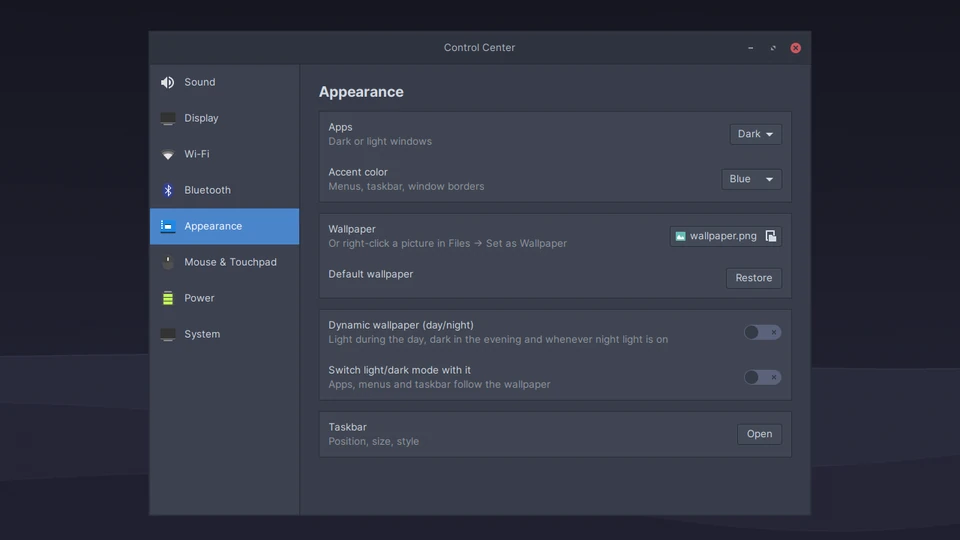
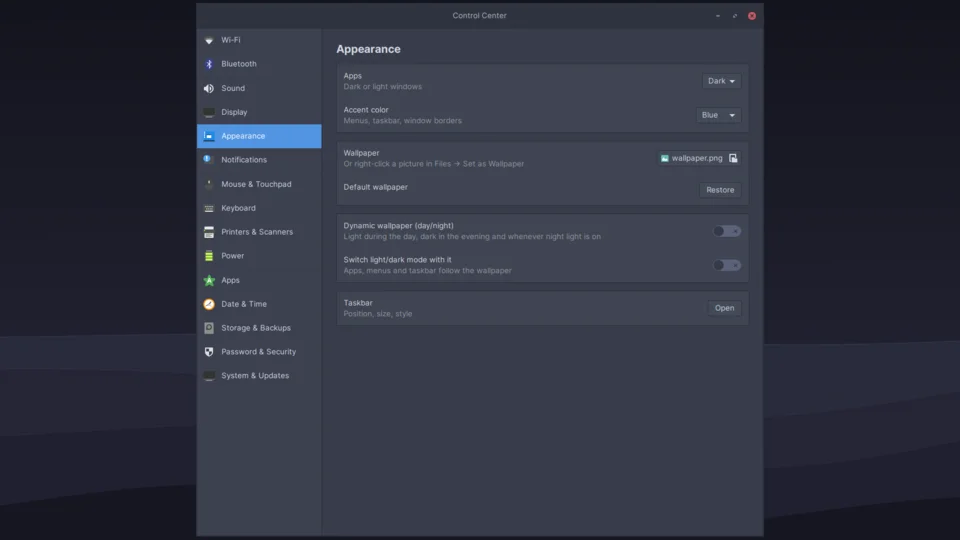
Roadmap: 1.0.6 next (7 Nov); Control Center screenshot from 1.0.5

diff --git a/roadmap.html b/roadmap.html
@@ -4,7 +4,7 @@
 <meta charset="utf-8">
 <meta name="viewport" content="width=device-width, initial-scale=1">
 <title>Roadmap – Simple-Project</title>
-<meta name="description" content="What's planned for Simple OS 1.1 and 2.0 (Debian 13), and for Simple Organizer.">
+<meta name="description" content="What's planned for Simple OS 1.0.6, 1.1 and 2.0 (Debian 13), and for Simple Organizer.">
 <link rel="stylesheet" href="style.css">
 <link rel="icon" href="favicon.svg" type="image/svg+xml">
 <meta name="theme-color" content="#fffdf9">
@@ -44,6 +44,7 @@
   <nav class="toc" aria-label="On this page">
     <strong>On this page</strong>
     <ul>
+      <li><a href="#v106">Simple OS 1.0.6</a></li>
       <li><a href="#v105">Simple OS 1.0.5 (released)</a></li>
       <li><a href="#v104">Simple OS 1.0.4 (released)</a></li>
       <li><a href="#v11">Simple OS 1.1</a></li>
@@ -56,6 +57,13 @@
 </aside>
 
 <main id="main" class="content">
+  <h2 id="v106">Simple OS 1.0.6<span class="pill next">Next</span></h2>
+  <p class="when">Bug-fix release · planned for 7 November 2026</p>
+  <ul>
+    <li>Whatever 1.0.5 users report</li>
+    <li>Small fixes to the release tools (<a href="https://github.com/FreakySneaky787/Simple-OS/issues/71">#71</a>, <a href="https://github.com/FreakySneaky787/Simple-OS/issues/72">#72</a>)</li>
+  </ul>
+
   <h2 id="v105">Simple OS 1.0.5<span class="pill">Released</span></h2>
   <p class="when">Bug-fix release with a new ISO · released 17 October 2026 · <a href="https://github.com/FreakySneaky787/Simple-OS/releases/tag/v1.0.5">Release notes</a></p>
   <p>Tested on a Lenovo ThinkPad E16 and in virtual machines, including an installation next to Windows.</p>

diff --git a/index.html b/index.html
@@ -167,6 +167,11 @@
   <div class="box accent">
     <h3>Coming next</h3>
     <div class="item">
+      <strong>Simple OS 1.0.6</strong>
+      <span class="sub small">Planned for 7 November 2026</span>
+      <p class="small" style="margin:4px 0 0">Bug fixes for what 1.0.5 users report.</p>
+    </div>
+    <div class="item">
       <strong>Simple OS 1.1</strong>
       <span class="sub small">About 2–3 months after 1.0</span>
       <p class="small" style="margin:4px 0 0">Display scaling for high-resolution screens, a Language &amp; Region page and translations, and a page for user accounts.</p>
